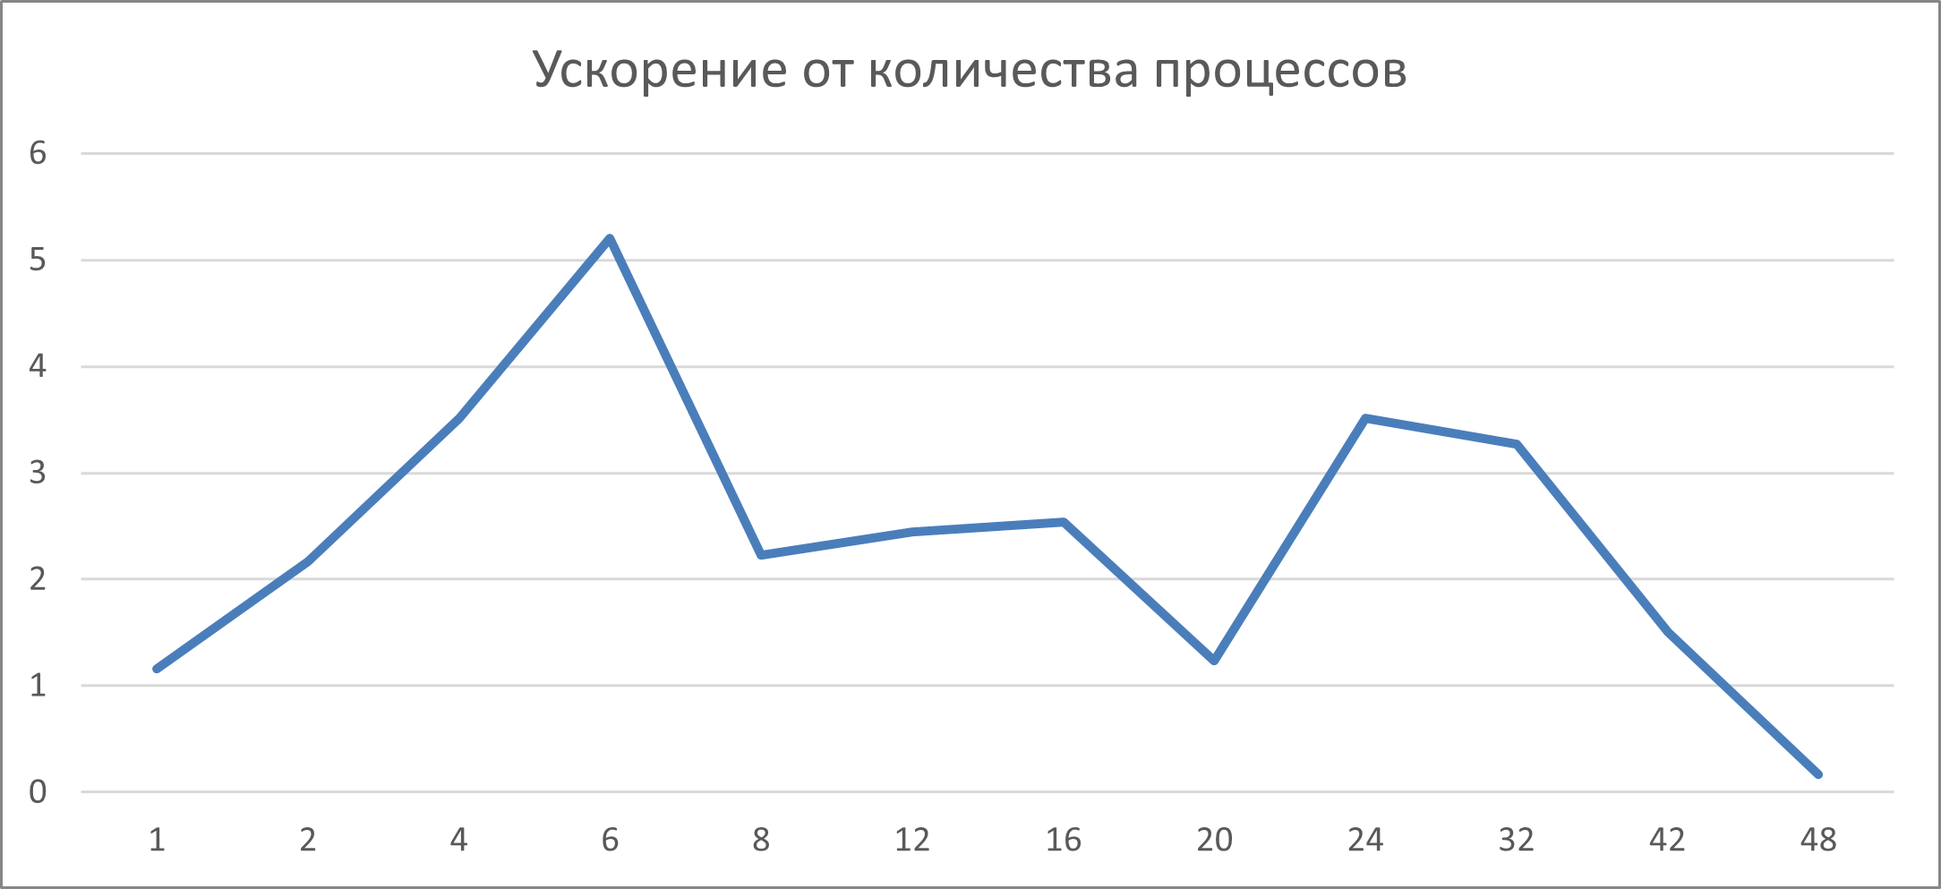
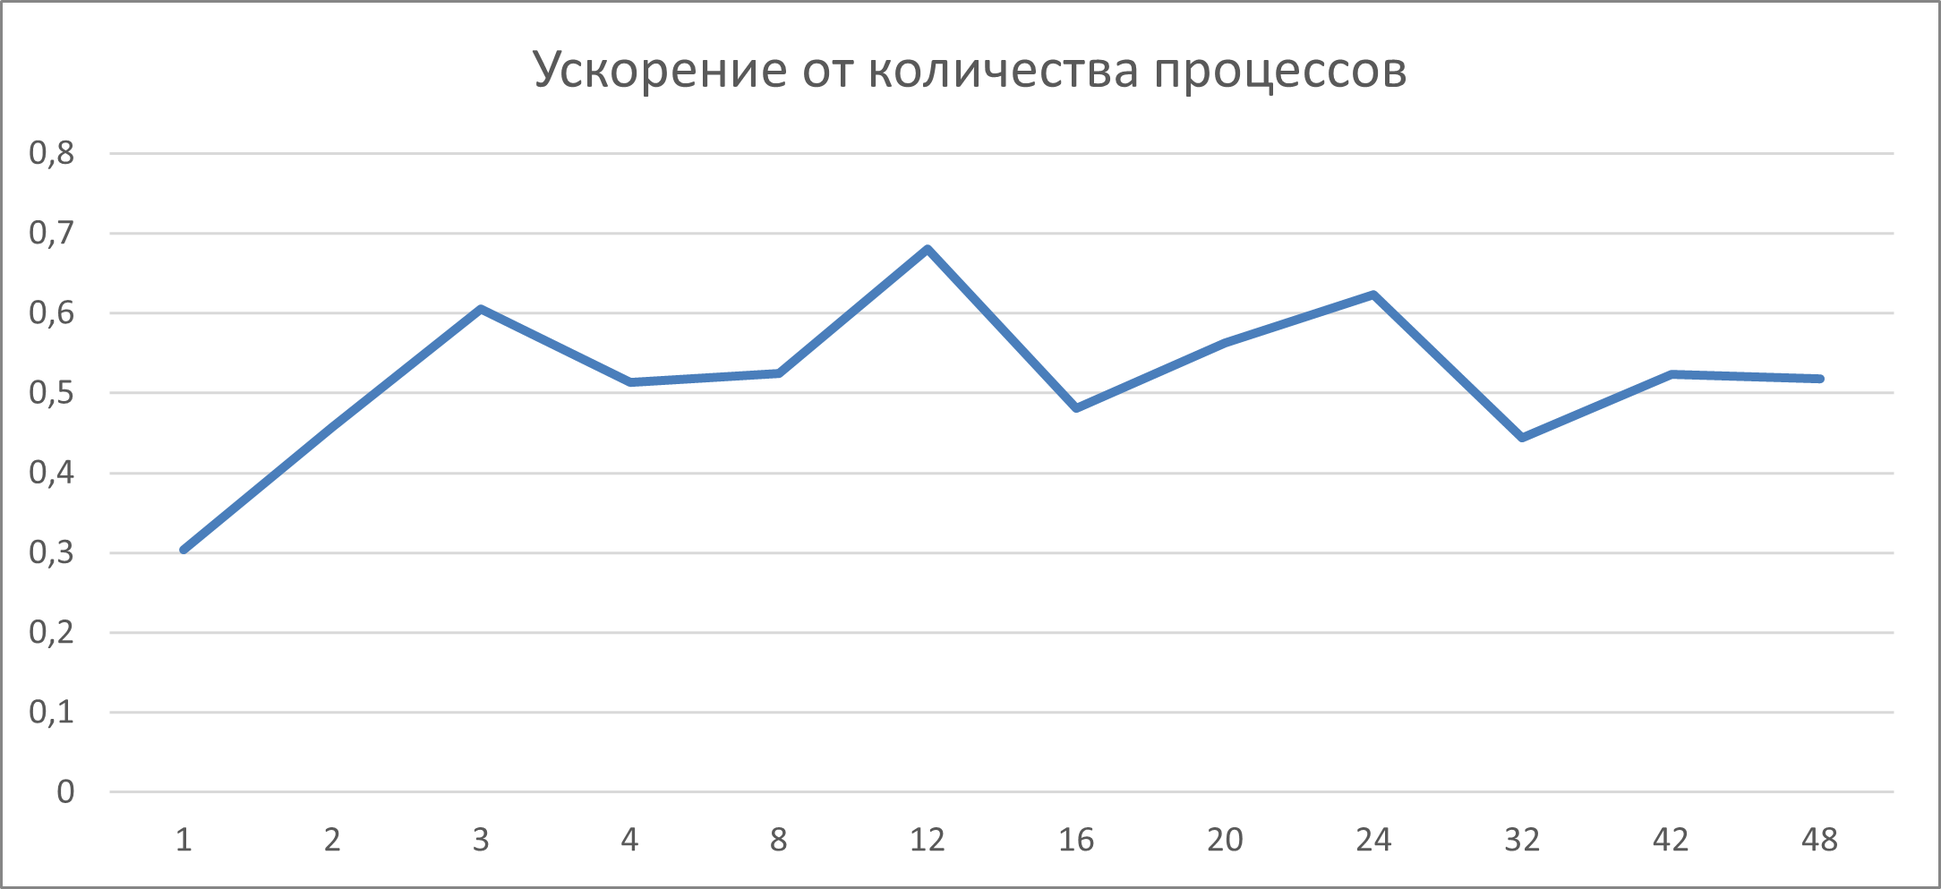
new report

diff --git a/tasks/gutyansky_a_matrix_column_sum/report.md b/tasks/gutyansky_a_matrix_column_sum/report.md
@@ -14,7 +14,7 @@
 
 Дана прямоугольная матрица \(A\) размера \(n \times m\), содержащая целые числа. Для каждого столбца требуется вычислить сумму элементов в нём.
 
-**Входные данные:** два целых числа \(n\) и \(m\), задающих соответственно кол-во строк и столбцов матрицы, \(n \times m\) чисел задающих элементы матрицы. Гарантируется, что элементы матрицы и ответ помещаются в 64-битный знаковый тип.
+**Входные данные:** два целых числа \(n\) и \(m\), задающих соответственно кол-во строк и столбцов матрицы, \(n \times m\) чисел задающих элементы матрицы. Гарантируется, что элементы матрицы и ответ помещаются в 32-битный знаковый тип.
 
 **Выходные данные:** \(m\) целых чисел - сумм по каждому из столбцов матрицы.
 
@@ -34,49 +34,40 @@ for (size_t i = 0; i < GetInput().rows; i++) {
 
 Для каждой строки матрицы от \(1\) до \(n\) столбцы обходятся в порядке от \(1\) до \(m\). Ответ накапливается в соответствующих ячейках массива.
 
-При описанной схеме обхода достигается почти линейный доступ к памяти. Обход строки может быть векторизован компилятором для достижения больше производительности.
+При описанной схеме обхода достигается почти последовательный доступ к памяти. При этом внутренний цикл по \(j\) может быть легко векторизован.
 
 ## 4. Параллелизация
 
-У каждого процесса есть своя копия входных данных. Взаимодействия при загрузке данных нет.
-
-Каждый процесс обрабатывает одну или более последовательных строк матрицы. Количество строк вычисляется по формуле:
+Отдадим каждому процессу на обработку одну или более последовательных строк матрицы. Количество строк вычисляется по формуле:
 
 ```cpp
-int remainder = n % proc_count;
-int rows = floor(n / proc_count) + (rank < remainder ? 1 : 0);
+int rows = floor(n / proc_count) + (proc_rank == 0 ? (n % proc_count) : 0);
 ```
 
-В формуле ранг MPI процесса обозначен как _rank_, а общее количество процессов как _proc_count_.
+В формуле _proc_count_ обозначает число запущенных процессов, а _proc_rank_ - ранг процесса.
 
-Реализация суммирования для выбранных строк повторяет реализацию последовательного алгоритма за исключением номеров обходимых строк.
+Если \(n\) не делится на _proc_count_ нацело, то остаток обрабатывается на нулевом процессе. В худшем случае, нулевой процесс обработает почти в два раза больше данных.
 
-Общее решение вычисляется с использованием функции _MPI_Allreduce_. Ответ становится доступен в каждом из процессов (необходимость, диктуемая тестируещим фреймворком).
+Полную копию данных имеет только процесс с нулевым рангом. Из него в другие процессы через _MPI_Bcast_ рассылаются сначала размеры матрицы, а потом через _MPI_Scatter_ блоки для обработки.
+
+Для вычисления частичного ответа используется код аналогичный последовательной версии за тем исключением, что суммирование выполняется не по всей матрице, а по ее части.
+
+Полное решение задачи вычисляется с использованием функции _MPI_Reduce_. Ответ становится доступен в памяти процесса с нулевым рангом.
 
 ## 5. Детали реализации
 
-gutyansky_a_matrix_column_sum/
-├── common/include/common.hpp
-├── seq/include/ops_seq.hpp
-├── seq/src/ops_seq.cpp
-├── mpi/include/ops_mpi.hpp
-├── mpi/src/ops_mpi.cpp
-├── tests/functional/main.cpp
-├── tests/performance/main.cpp
-└── data/
+Для функциональных тестов реализована загрузка из файлов, хранящихся в директории data/. Матрица большого размера, сохраненная в текстовом файле, может занимать большой объем места на диске, но для функциональных тестов возможность использования больших матриц является избыточной.
 
-Для функциональных тестов (tests/functional/main.cpp) реализована загрузка из файлов, хранящихся в директории data/. Матрица большого размера, сохраненная в текстовом файле, может занимать большой объем места на диске, но для функциональных тестов возможность использования больших матриц является избыточной.
+Для теста производительности используется квадратная матрица размера 16000 на 16000 элементов. Матрица состоит из единиц, что никак не влияет на скорость исполнения, но упрощает генерацию теста.
 
-Для теста производительности используется квадратная матрица размера 8000 на 8000 элементов. Матрица состоит из единиц, что никак не влияет на скорость исполнения, но упрощает реализацию теста.
-
-Количество используемой памяти никак не оптимизировалось. Из-за особенностей работы тестирующего фреймворка две полных копии данных хранится в каждом запущенном процесса. Тест производительности, описанный в предыдущем абзаце, потребляет около 1Гб ОЗУ.
+Как уже отмечалось ранее, для параллельной версии загрузка тестовых данных и проверка ответа происходит только на процессе с нулевым рангом.
 
 ## 6. Тестовое окружение
 
-- Аппаратное обеспечение/Операционная система: Intel Core i5 14600KF, 6P+8E ядер/20 потоков, 64Gb Ddr5 5600Mhz, Windows 10.
+- Аппаратное обеспечение/Операционная система: Intel Core i5 14600KF, 6P+8E ядер, 64Gb Ddr5 5600Mhz, Windows 10, MS-MPI.
 - Инструменты сборки: Cmake 4.2.0-rc4, Visual Studio 2022, MSVC, x64 Release.
-- Переменные окружения: PPC_NUM_THREADS=PPC_NUM_PROC=1/2/4/6/8/12/16/20/24/32/42/48, PPC_PERF_MAX_TIME=10000.
-- Данные: вручную созданные тесты небольшого размера, случайным образом сгенерированный тест 1000x1000 элементов, матрица из единиц размера 8000x8000.
+- Переменные окружения: PPC_NUM_THREADS=PPC_NUM_PROC=1/2/3/4/8/12/16/20/24/32/42/48, PPC_PERF_MAX_TIME=10000.
+- Данные: вручную созданные тесты небольшого размера, случайным образом сгенерированный тест 1000x1000 элементов, матрица из единиц размера 16000x16000.
 - Дополнительно: в scripts/run_tests.py были отключены perf тесты для всех технологий, кроме seq и mpi.
 
 ## 7. Результаты
@@ -85,7 +76,7 @@ gutyansky_a_matrix_column_sum/
 
 Решение, как в последовательной, так и в параллельной версии было протестировано на входных данных разного размера и содержания. В числе тестов: матрица с одним столбцом и одной строкой, матрица, состоящая из нулей, неквадратная матрица и другие.
 
-Скорость исполнения проверена на матрице из единиц размера 8000х8000 элементов. Время исполнения стабильно и равно 35мс.
+Скорость исполнения проверена на матрице из единиц размера 16000х16000 элементов. Время исполнения стабильно и равно 110мс.
 
 ### 7.2 Производительность
 
@@ -93,33 +84,29 @@ gutyansky_a_matrix_column_sum/
 
 | Режим        | Кол-во процессов | Время, сек | Ускорение | Эффективность параллелизма |
 |-------------|-------|---------|---------|------------|
-| seq         | 1     | 0.035  | 1.00    | N/A        |
-| omp         | 2     | 0.016  | 2.17    | 108.4%     |
-| omp         | 4     | 0.010  | 3.51    | 87.5%      |
-| omp         | 6     | 0.007  | 5.20    | 86.7%      |
-| omp         | 8     | 0.016  | 2.22    | 27.8%      |
-| omp         | 12    | 0.029  | 2.44    | 20.3%      |
-| omp         | 16    | 0.014  | 2.53    | 15.8%      |
-| omp         | 20    | 0.029  | 1.50    | 3.5%       |
-| omp         | 24    | 0.010  | 3.51    | 14.6%      |
-| omp         | 32    | 0.012  | 3.26    | 10.2%      |
-| omp         | 42    | 0.023  | 1.5     | 3.6%       |
-| omp         | 48    | 0.221  | 0.16    | 0.3%       |
+| seq         | 1     | 0.106  | 1.00    | N/A        |
+| mpi         | 2     | 0.235  | 0.303   | 30.3%      |
+| mpi         | 3     | 0.175  | 0.605   | 20.1%      |
+| mpi         | 4     | 0.211  | 0.512   | 12.8%      |
+| mpi         | 8     | 0.208  | 0.524   | 6.5%       |
+| mpi         | 12    | 0.163  | 0.68    | 5.6%       |
+| mpi         | 16    | 0.222  | 0.48    | 3.0%       |
+| mpi         | 20    | 0.191  | 0.56    | 2.8%       |
+| mpi         | 24    | 0.177  | 0.62    | 2.5%       |
+| mpi         | 32    | 0.240  | 0.44    | 1.3%       |
+| mpi         | 42    | 0.206  | 0.52    | 1.2%       |
+| mpi         | 48    | 0.205  | 0.52    | 1.0%       |
 
 ![Ускорение от количества процессов](./report_assets/pic1.png)
 ![Эффективность параллелизма](./report_assets/pic2.png)
 
-Для двух потоков эффективность больше 100%, поскольку код для MPI версии был оптимизирован компилятором лучше, чем для последовательной.
+Первое, что стоит отметить, это замедление MPI версии относительно последовательной. Данных для обработки много, в то время как операций над ними мало. Большая часть времени тратится на пересылку данных между процессами.
 
-Эффективность параллелизма падает вместе с увеличением числа обменов между процессами.
+При отсутствии рассылки входных данных удавалось достичь ускорения относительно последовательной версии в 5.2 раза, что не являлось пределом, так как то решение не было оптимизировано и хранило полную копию входных данных на каждом из процессов.
 
-Необычным образом ведет себя график ускорения. До 6 процессов идет почти линейный рост ускорения. Это совпадает с количеством производительных ядер процессора, а также с интуитивными представлениями о пропускной способности оперативной памяти.
+Видно, что производительность растет до достижения 12 процессов, что равно количеству производительных ядер процессора с учетом Hyper-Threading. Ускорение в максимуме достигло 2.3 раз относительно запуска с одним процессом.
 
-Далее производительность стремительно падает до достижения 20 процессов. Причин у этого может быть несколько, начиная от использования логических потоков и энергоэффективных ядер, заканчивая борьбой за доступ к памяти. Последний вариант выглядит правдоподобным, исходя из описанных ранее проблем с потреблением памяти процессами.
-
-Небольшое ускорение видно на 24 процессах. _Предположение автора отчета: здесь появляется конкуренция за процессорное время, что приводит к частым переключениям контекста. За счет переключений немного уменьшается конкуренция за доступ к ОЗУ, что может давать прирост._
-
-К 42 процессам ускорение снова уменьшается и переходит в замедление на 48 процессах, т.к. операционная система начала использовать _swap_ и копировать страницы на диск.
+Далее накладные расходы от рассылки данных начинают съедать производительность и график, хоть и нелинейно, начинает опускаться.
 
 ## 8. Заключение
 
